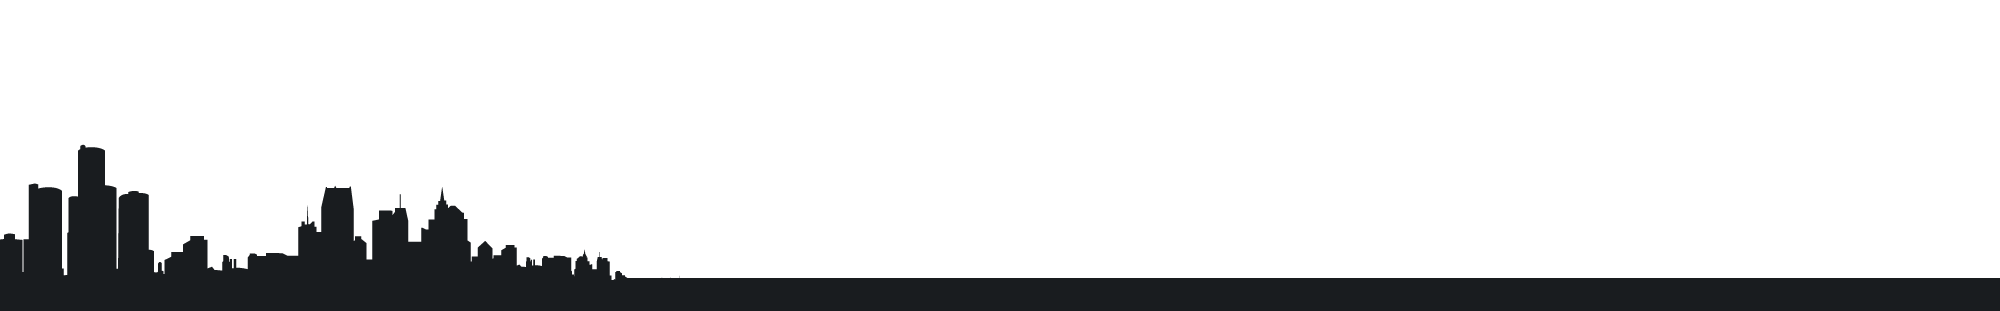
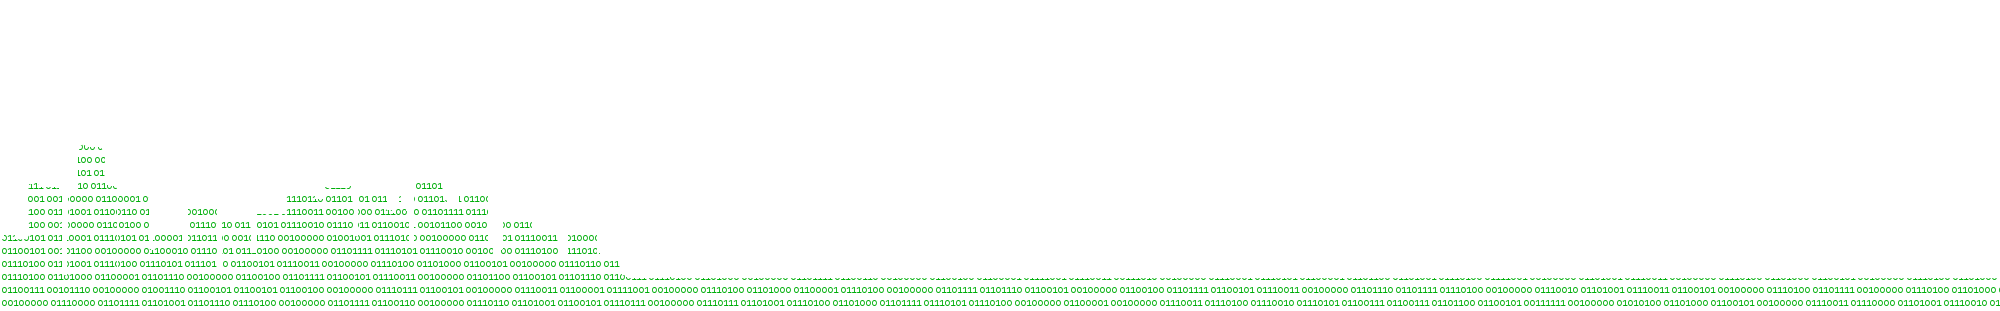
updating website stuff

Changed region(s): [[0.0, 0.463, 1.0, 1.0], [0.186, 0.5788, 0.217, 0.6077]]

diff --git a/JS/matrix.js b/JS/matrix.js
@@ -1,0 +1,285 @@
+function matrix() {
+  const canvas = document.getElementById("canvas");
+  const c = canvas.getContext("2d");
+
+  const fontHeight = 14;
+  const fontFamily = "Abel";
+
+  const numbers = "0123456789";
+  const operators = "#+-\\/|=";
+  const katakana =
+    "アイウエオカキクケコサシスセソタチツテトナニヌネノハヒフヘホマミムメモヤユヨラリルレロワヰヱヲ";
+  const hiragana =
+    "あいうえおかきくけこがぎぐげごさしすせそざじずぜぞtたちつてとだぢづでどなにぬねのはひふへほばびぶべぼぱぴぷぺぽまみむめもやゆよらりるれろわゐゑをん";
+  /*
+  const alphabet = numbers + operators + katakana + hiragana;
+  */
+  const alphabet = "10"
+
+  const spawnInterval = 500;
+  const density = 0.7;
+
+  const glitchInterval = 500;
+  const glitchAmount = 0.01;
+
+  const moveScale = 0.012;
+
+  const speedBase = 1.0;
+  const speedDeviation = 0.4;
+  const streaks = 1.9;
+
+  const brightRatio = 0.1;
+
+  const randomGlyph = () => {
+    return {
+      glyph: alphabet[Math.floor(Math.random() * alphabet.length)],
+      flipped: Math.random() < 0.5,
+      bright: Math.random() < brightRatio
+    };
+  };
+
+  const makeUniverse = size => {
+    out = [];
+    for (let i = 0; i < size; i++) {
+      out.push(randomGlyph());
+    }
+    return out;
+  };
+  const universe = makeUniverse(1000);
+
+  let w;
+  let h;
+
+  let charHeight;
+  let colWidth;
+  let colsPerLine;
+  let charsOnCol;
+
+  const setCanvasExtents = () => {
+
+    w = document.body.clientWidth;
+    h = document.body.clientHeight;
+    /*
+    canvas.width = w;
+    canvas.height = h;
+    */
+
+    // need to recalculate font properties when canvas is resized
+    c.font = fontHeight + "px " + fontFamily;
+    c.textBaseline = "top";
+    const charSize = c.measureText("ネ");
+
+    colWidth = charSize.width * 1.15;
+    charHeight = fontHeight * 1.15;
+
+    charsOnCol = Math.ceil(h / charHeight);
+    if (charsOnCol <= 0) {
+      charsOnCol = 1;
+    }
+    colsPerLine = Math.ceil(w / colWidth);
+    if (colsPerLine <= 0) {
+      colsPerLine = 1;
+    }
+  };
+
+  setCanvasExtents();
+
+  window.onresize = () => {
+    setCanvasExtents();
+  };
+
+  const makeTrail = (col, maxSpeed = null, headAt = null) => {
+    let speed =
+      speedBase + (Math.random() * speedDeviation * 2 - speedDeviation);
+
+    if (maxSpeed > 0 && speed > maxSpeed) {
+      speed = maxSpeed;
+    }
+
+    if (headAt == null) {
+      headAt = -Math.floor(Math.random() * 2 * charsOnCol);
+    }
+
+    return {
+      col: col,
+      universeAt: Math.floor(Math.random() * universe.length),
+      headAt: headAt,
+      speed: speed,
+      length: Math.floor(Math.random() * streaks * charsOnCol) + 8
+    };
+  };
+
+  const trails = [];
+
+  const clear = () => {
+    c.fillStyle = "black";
+    c.fillRect(0, 0, canvas.width, canvas.height);
+  };
+
+  const rgb = "#008000";
+  const rgbBright = "#20E020";
+  const rgbHead = ["#F0FFF0", "#D0F0D0", "#80C080", "#40B040"];
+  const rgbTail = ["#000500", "#003000", "#005000", "#007000"];
+
+  const drawTrail = trail => {
+    const head = Math.round(trail.headAt);
+
+    // trail has yet to enter screen from above
+    if (head < 0) return;
+
+    const x = trail.col * colWidth;
+    let y = head * charHeight + charHeight * 0.35;
+
+    for (let i = 0; i < trail.length; i++, y -= charHeight) {
+      // went up beyond top screen edge?
+      if (y < 0) break;
+      // went down beyond bottom screen edge?
+      if (y > h) continue;
+
+      const idx = (trail.universeAt + head - i) % universe.length;
+      const item = universe[idx];
+
+      if (i < rgbHead.length) {
+        c.fillStyle = rgbHead[i];
+      } else if (trail.length - i - 1 < rgbTail.length) {
+        c.fillStyle = rgbTail[trail.length - i - 1];
+      } else {
+        if (item.bright) {
+          c.fillStyle = rgbBright;
+        } else {
+          c.fillStyle = rgb;
+        }
+      }
+
+      if (item.flipped) {
+        c.setTransform(-1, 0, 0, 1, 0, 0);
+        c.fillText(item.glyph, -x - colWidth, y);
+        c.setTransform(1, 0, 0, 1, 0, 0);
+      } else {
+        c.fillText(item.glyph, x, y);
+      }
+    }
+  };
+
+  const moveTrails = distance => {
+    const trailsToRemove = [];
+
+    const count = trails.length;
+    for (let i = 0; i < count; i++) {
+      const trail = trails[i];
+      trail.headAt += trail.speed * distance;
+
+      const tip = trail.headAt - trail.length;
+      // if the trail went far enough down to be invisible, mark it for removal
+      if (tip * charHeight > h) {
+        trailsToRemove.push(i);
+      }
+    }
+
+    // remove trails that went entirely beyond screen bottom edge
+    while (trailsToRemove.length > 0) {
+      trails.splice(trailsToRemove.pop(), 1);
+    }
+  };
+
+  const spawnTrails = () => {
+    // find topmost trail on each column
+    const topTrailPerCol = [];
+    for (let i = 0; i < trails.length; i++) {
+      const trail = trails[i];
+      const trailTop = trail.headAt - trail.length;
+      const top = topTrailPerCol[trail.col];
+      if (!top || top.headAt - top.length > trailTop) {
+        topTrailPerCol[trail.col] = trail;
+      }
+    }
+
+    // spawn new trails
+    for (let i = 0; i < colsPerLine; i++) {
+      let spawnProbability = 0.0;
+      let maxSpeed = null;
+      let headAt = null;
+
+      if (!topTrailPerCol[i]) {
+        // column has no trail at all
+        // we'll try and add one
+        // this most commonly happens at the beginning of the animation
+        // when few trails have spawned yet
+        spawnProbability = 1.0;
+      } else {
+        // column has a trail
+        const topTrail = topTrailPerCol[i];
+        const tip = Math.round(topTrail.headAt) - topTrail.length;
+        if (tip > 0) {
+          // if trail's top tip is on screen
+          // we might spawn another one
+          // probability rises the further down the tip is
+          const emptySpaceRatio = tip / charsOnCol;
+          spawnProbability = emptySpaceRatio;
+          // heuristic limiting speed of new trail chasint the existing one
+          //  we don't want the chasing trail to catch up
+          maxSpeed = topTrail.speed * (1 + emptySpaceRatio);
+          // we'll spawn the follow up at the top of the screen
+          headAt = 0;
+        }
+      }
+
+      // scale the probabilities by density
+      const effectiveP = spawnProbability * density;
+
+      // spawn?
+      const p = Math.random();
+
+      if (p < effectiveP) {
+        trails.push(makeTrail(i, maxSpeed, headAt));
+      }
+    }
+  };
+
+  const glitchUniverse = count => {
+    for (let i = 0; i < count; i++) {
+      const idx = Math.floor(Math.random() * universe.length);
+      universe[idx] = randomGlyph();
+    }
+  };
+
+  let prevTime;
+  let glitchCollect = 0;
+  let spawnCollect = 0;
+
+  const init = time => {
+    prevTime = time;
+    requestAnimationFrame(tick);
+  };
+
+  const tick = time => {
+    let elapsed = time - prevTime;
+    prevTime = time;
+
+    moveTrails(elapsed * moveScale);
+
+    spawnCollect += elapsed;
+    while (spawnCollect > spawnInterval) {
+      spawnCollect -= spawnInterval;
+      spawnTrails();
+    }
+
+    glitchCollect += elapsed;
+    while (glitchCollect > glitchInterval) {
+      glitchCollect -= glitchInterval;
+      glitchUniverse(Math.floor(universe.length * glitchAmount));
+    }
+
+    clear();
+
+    const count = trails.length;
+    for (var i = 0; i < count; i++) {
+      const trail = trails[i];
+      drawTrail(trail);
+    }
+
+    requestAnimationFrame(tick);
+  };
+
+  requestAnimationFrame(init);
+}

diff --git a/quiz.html b/quiz.html
@@ -19,50 +19,46 @@
     <div id="container">
       <h1>sublime lime</h1>
       <ul id="centerwell">
-        <li id="behance">
-          <h3><a href="" target="_blank">Behance</a></h3>
-          <p>Take a look at my portfolio, let me know whatcha think.</p>
+        <li id="first">
+          <h3><a href="" target="_blank"></a></h3>
+          <p>think.</p>
         </li>
 
-        <li id="flicker">
-          <h3><a href="" target="_blank">Flicker</a></h3>
-          <p>See what I've been up to with my camera.</p>
+        <li id="rest">
+          <h3><a href="" target="_blank"></a></h3>
+          <p>see.</p>
         </li>
 
-        <li id="linkedin">
-          <h3><a href="" target="_blank">LinkedIn</a></h3>
-          <p>Hit me up, I'm always looking to make new connections.</p>
+        <li id="rest">
+          <h3><a href="" target="_blank"></a></h3>
+          <p>speak.</p>
         </li>
 
-        <li id="facebook">
+        <li id="rest">
           <h3><a href="" target="">Facebook</a></h3>
-          <p>I have to admit I check it at least once a day.</p>
+          <p>move.</p>
         </li>
 
-        <li id="twitter">
+        <li id="rest">
           <h3><a href="" target="_blank">Twitter</a></h3>
-          <p>I'm more of a voyeur here, but when I do say something ...</p>
+          <p>breathe.</p>
         </li>
 
-        <li id="resume">
+        <li id="rest">
           <h3><a href="" target="">Resume</a></h3>
-          <p>Download in PDF format. References given upon request.</p>
+          <p>request.</p>
         </li>
 
-        <li id="email">
+        <li id="rest">
           <h3><a href="">Email</a></h3>
-          <p></p>
+          <p>accept.</p>
         </li>
 
-        <li id="contact">
+        <li id="rest">
           <h3><a href="" target="">Contact</a></h3>
-          <p>
-            Phone: <br />
-            Location:
-          </p>
+          <p>woo.</p>
         </li>
       </ul>
-
     </div>
 
 

diff --git a/test.html b/test.html
@@ -1,0 +1,24 @@
+<!DOCTYPE html>
+<script type="text/javascript" src="./JS/matrix.js"></script>
+
+<body
+  style="
+    position: fixed;
+    left: 0px;
+    right: 0px;
+    top: 0px;
+    bottom: 0px;
+    overflow: hidden;
+    margin: 0;
+    padding: 0;
+  "
+>
+  <canvas
+    id="canvas"
+    style="width: 100; height: 100; padding: 10; margin: 10;"
+  ></canvas>
+
+  <script>matrix();</script>
+
+</body>
+</html>
